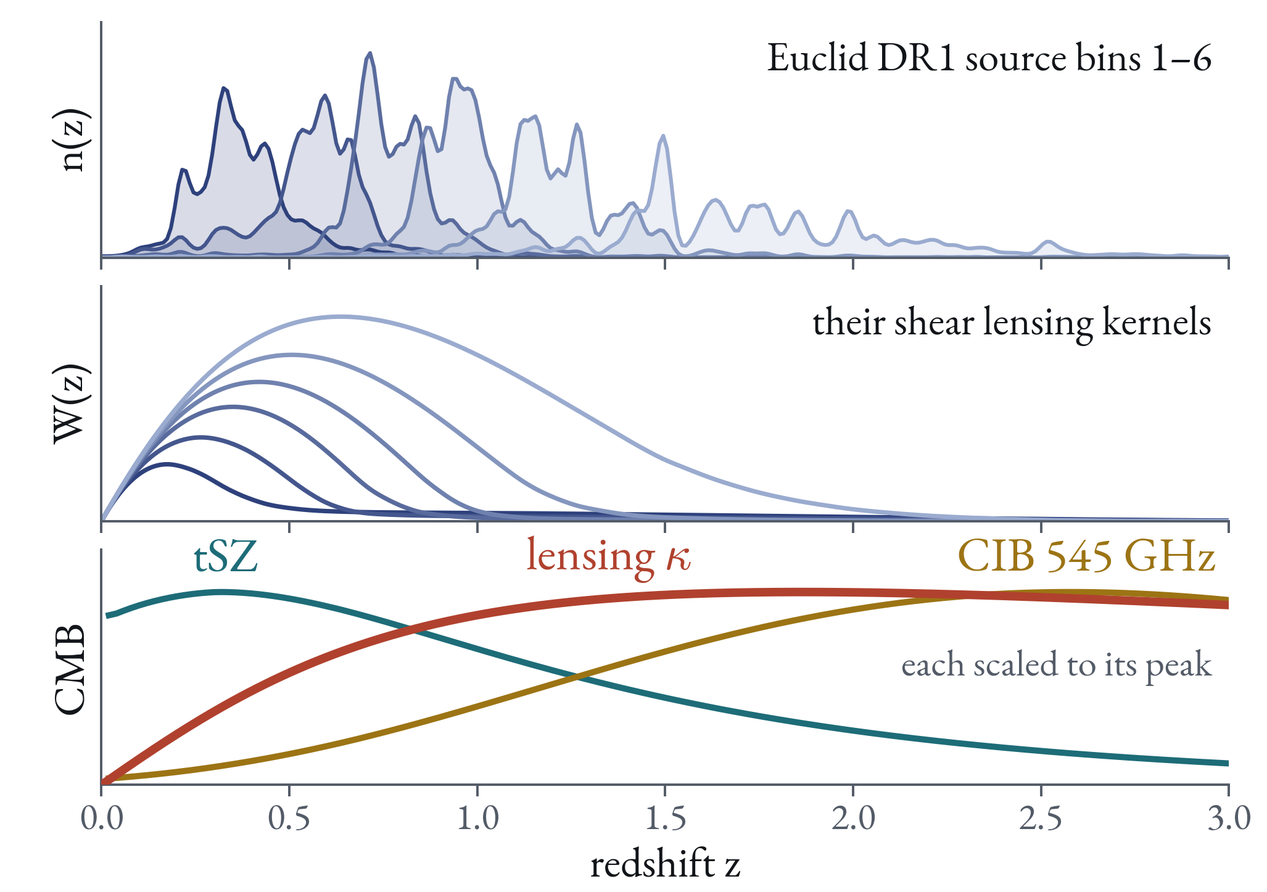
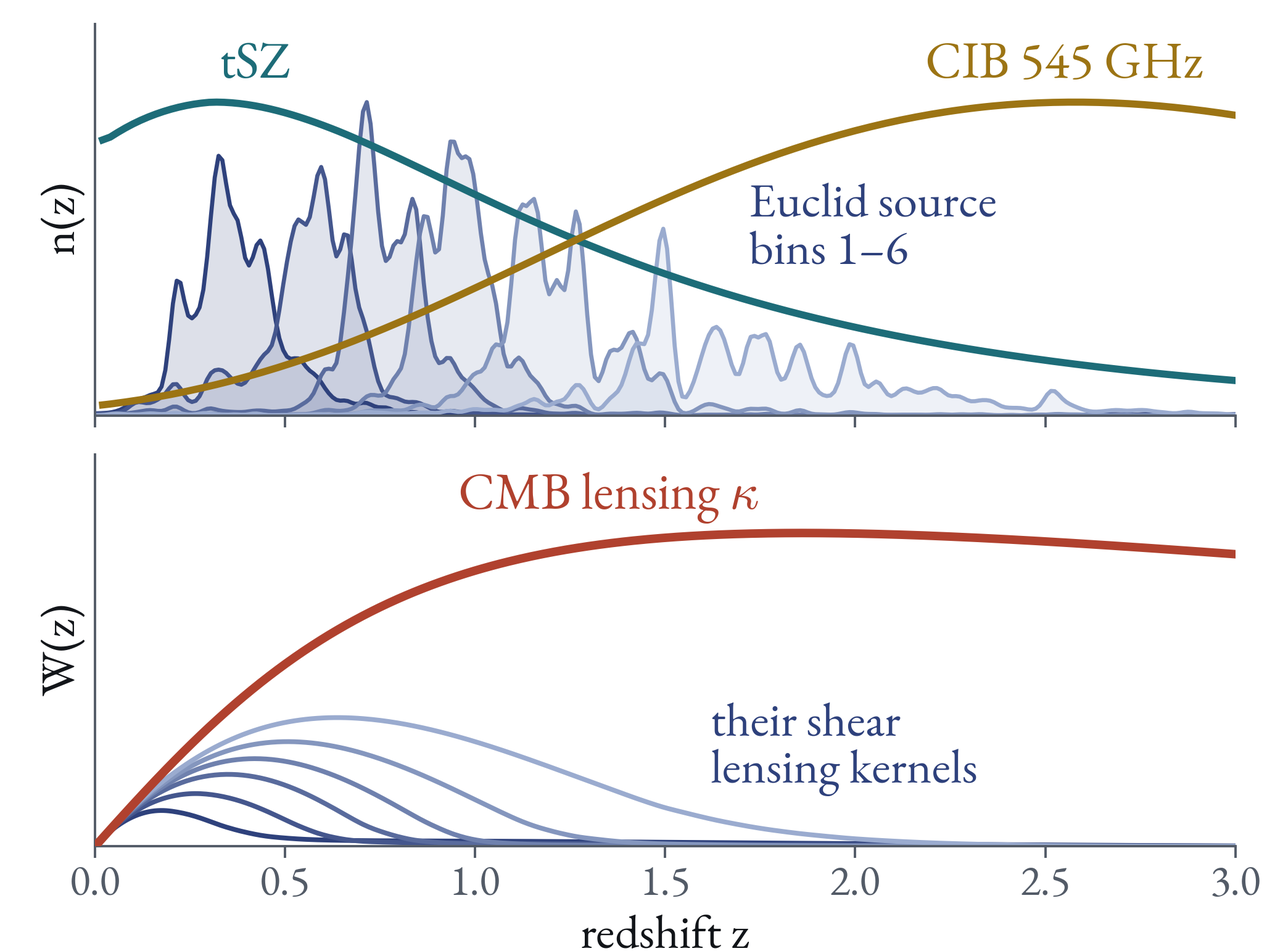
Napoli: two-panel kernels, KP1 extended-forecast slides, legible-size fixes
Kernels: n(z)-like kernels on top (source bins, tSZ, CIB), lensing kernels below
(shear bins and CMB lensing in common units). Pre-launch KP1 extended
forecasts (two slides from the contributions deck, text verbatim, fine print
and the contributor's notes in Sources & notes) follow 'Why CMB lensing'. The
people and KP2-3 paper slides split in two to stay legible at the new sizes;
small text moved into Sources & notes across the deck.

Claude-Session: https://claude.ai/code/session_018w6hWXStpK29arj2zqXwCN

diff --git a/2610_Napoli_CMBX/slides/why-kappa.html b/2610_Napoli_CMBX/slides/why-kappa.html
@@ -1,22 +1,30 @@
 <section data-layout="figure-text">
   <h2>CMB secondaries: anchors with their own systematics</h2>
   <figure>
-    <img src="images/napoli_secondary_kernels_euclid.png" alt="The six Euclid DR1 source bins against redshift up to 3: their n(z) on top and their shear lensing kernels below, with an empty panel at the bottom for the CMB secondaries">
-    <img class="fragment" src="images/napoli_secondary_kernels.png" alt="The same, with the CMB lensing, CIB and tSZ redshift kernels in the bottom panel, each scaled to its peak">
-    <span class="source">Euclid DR1 source n(z) (May 2026); tSZ and CIB from CCL halo models; Planck 2018 cosmology.</span>
+    <img src="images/napoli_secondary_kernels_euclid.png" alt="Two panels against redshift up to 3: on top the n(z) of the six Euclid DR1 source bins, below their shear lensing kernels">
+    <img class="fragment" src="images/napoli_secondary_kernels.png" alt="The same, with the tSZ and CIB kernels added to the top panel, each scaled to its peak, and the CMB lensing kernel added to the bottom panel in the same units as the shear kernels">
   </figure>
   <div class="text">
     <span class="kicker">What the CMB picks up on its way</span>
     <ul>
-      <li><strong>lensing κ:</strong> all matter, $z \approx 0.5$–$5$</li>
-      <li><strong>CIB:</strong> dusty star formation, $z \approx 1$–$4$</li>
+      <li><strong>lensing κ:</strong> all matter, $z \approx 0.5\text{–}5$</li>
+      <li><strong>CIB:</strong> dusty star formation, $z \approx 1\text{–}4$</li>
       <li><strong>tSZ:</strong> hot gas in haloes, $z \lesssim 1.5$</li>
       <li>no shape noise, IA or photo-z on the CMB side</li>
     </ul>
   </div>
   <aside class="notes">
-    <p>Top: the n(z) of the six Euclid DR1 weak-lensing source bins, each normalised to unit area and drawn with the analysis's Hann smoothing (width 0.05). Middle: the lensing kernel $W(z)$ of each bin, from the official tomographic n(z) product (DpdBinMeanRedshift, PHZ-weighted, South release, May 2026; mean redshifts 0.45 to 1.73), in common units so the bins' heights compare, at a Planck 2018 ΛCDM background. The shear kernels peak below $z \approx 0.7$ and are gone by $z \approx 2.5$.</p>
-    <p>Bottom, at the second step: the redshift kernels of three CMB secondaries, each scaled to its own peak because their units differ. CMB lensing: the same lensing efficiency with a single source plane at last scattering, $z_* \approx 1100$, peaking at $z \approx 1.9$ and above half its peak from $z \approx 0.4$ to beyond the plotted $z = 3.$ The cosmic infrared background at 545 GHz: the bias-weighted emissivity of the Shang et al. (2012) halo model at CCL's default parameters, peaking at $z \approx 2.6$ and above half its peak from $z \approx 1.2$ to beyond $z = 3$ (to $z \approx 4.5$). The thermal Sunyaev–Zel'dovich effect: the bias-weighted mean electron pressure in a generalised-NFW halo model, peaking at $z \approx 0.3$ and above half its peak below $z \approx 1.4.$ This is not a cluster selection function: a single cluster's SZ decrement does not dim with redshift, which is why SZ cluster catalogues are close to mass-limited out to high redshift. But the tSZ signal per unit redshift, which is what a cross-correlation sees, follows the abundance of massive, hot haloes, and that falls steeply beyond $z \sim 1$; most of the y signal comes from $z \lesssim 1.5.$ Bias-weighted kernels are what a cross-correlation sees on linear scales. The CIB and tSZ shapes depend on the model, the CIB peak most of all; they show where each signal comes from, not a measurement.</p>
-    <p>Lensing and the CIB weight structure behind and across our source bins, where the shear kernels have little weight; the tSZ overlaps the low-redshift bins and traces hot gas rather than all matter. All three are measured from CMB maps, with no shape noise, intrinsic alignments or photometric redshifts on that side; their noise and foregrounds are of another kind, independent of the shear catalogue. A cross-spectrum still inherits the galaxy side's systematics: $\gamma\kappa$ carries the sources' multiplicative bias, n(z) and an intrinsic-alignment term, $\delta\kappa$ the galaxy bias. The next slide zooms in on CMB lensing.</p>
+    <h3>What is plotted</h3>
+    <p>Two panels on one redshift axis. Top: where each signal comes from, the kernels that play the role of an n(z). Bottom: lensing kernels $W(z)$, the lensing efficiency per unit redshift.</p>
+    <p>Top, first step: the n(z) of the six Euclid DR1 weak-lensing source bins, each normalised to unit area and drawn with the analysis's Hann smoothing (width 0.05). Second step: the tSZ and CIB kernels, each scaled to its own peak because their units differ from an n(z) and from each other.</p>
+    <p>Bottom, first step: the lensing kernel of each source bin, from the official tomographic n(z) product (DpdBinMeanRedshift, PHZ-weighted, South release, May 2026; mean redshifts 0.45 to 1.73). Second step: CMB lensing, the same lensing efficiency with a single source plane at last scattering, $z_* \approx 1100.$ The shear kernels and CMB lensing are in the same units, so their heights compare: CMB lensing peaks at $z \approx 1.9$, about 2.4 times the peak of the highest source bin's kernel, and stays above half its peak from $z \approx 0.4$ to beyond $z = 3.$ The shear kernels peak below $z \approx 0.7$ and are gone by $z \approx 2.5.$</p>
+    <h3>The CMB secondaries</h3>
+    <p>The cosmic infrared background at 545 GHz: the bias-weighted emissivity of the Shang et al. (2012) halo model at CCL's default parameters, peaking at $z \approx 2.6$ and above half its peak from $z \approx 1.2$ to beyond $z = 3$ (to $z \approx 4.5$).</p>
+    <p>The thermal Sunyaev–Zel'dovich effect: the bias-weighted mean electron pressure in a generalised-NFW halo model, peaking at $z \approx 0.3$ and above half its peak below $z \approx 1.4.$ This is not a cluster selection function: a single cluster's SZ decrement does not dim with redshift, which is why SZ cluster catalogues are close to mass-limited out to high redshift. But the tSZ signal per unit redshift, which is what a cross-correlation sees, follows the abundance of massive, hot haloes, and that falls steeply beyond $z \sim 1$; most of the y signal comes from $z \lesssim 1.5.$</p>
+    <p>Bias-weighted kernels are what a cross-correlation sees on linear scales. The CIB and tSZ shapes depend on the model, the CIB peak most of all; they show where each signal comes from, not a measurement.</p>
+    <h3>Why it matters</h3>
+    <p>Lensing and the CIB weight structure behind and across our source bins, where the shear kernels have little weight; the tSZ overlaps the low-redshift bins and traces hot gas rather than all matter. All three are measured from CMB maps, with no shape noise, intrinsic alignments or photometric redshifts on that side; their noise and foregrounds are of another kind, independent of the shear catalogue. A cross-spectrum still inherits the galaxy side's systematics: $\gamma\kappa$ carries the sources' multiplicative bias, n(z) and an intrinsic-alignment term, $\delta\kappa$ the galaxy bias.</p>
+    <h3>Sources</h3>
+    <p>Euclid DR1 source n(z): DpdBinMeanRedshift, PHZ MergeNz 1.0.2, release DR1_WLSOUTH_R1 (May 2026). tSZ and CIB: CCL halo models (Tinker08 mass function, Tinker10 bias, generalised-NFW pressure after Arnaud et al. 2010 with hydrostatic bias 0.8; Shang et al. 2012 CIB). Planck 2018 cosmology. Figure: <code>make_kernels.py</code> in the talks repo.</p>
   </aside>
 </section>

diff --git a/2610_Napoli_CMBX/slides/people.html b/2610_Napoli_CMBX/slides/people.html
@@ -1,8 +1,5 @@
 <section data-layout="people">
-  <h2>The DR1 key projects and their people</h2>
-  <div class="people" data-label="KP1-2" data-topic="ISW &amp; lensing">
-    <figure><img src="images/collaborators/carlo-baccigalupi-hires.jpg" alt="Carlo Baccigalupi"><figcaption>Carlo Baccigalupi</figcaption></figure>
-  </div>
+  <h2>DR1-KP-CMBX-2-3 and its people</h2>
   <div class="people" data-label="KP2-3" data-topic="Cosmology from Euclid 3×2pt with CMB lensing">
     <figure><img src="images/collaborators/carlo-baccigalupi-hires.jpg" alt="Carlo Baccigalupi"><figcaption>Carlo Baccigalupi</figcaption></figure>
     <figure><img src="images/collaborators/giulio-fabbian.jpg" alt="Giulio Fabbian"><figcaption>Giulio Fabbian</figcaption></figure>
@@ -14,29 +11,14 @@
     <figure><img src="images/collaborators/giulia-piccirilli.jpg" alt="Giulia Piccirilli"><figcaption>Giulia Piccirilli</figcaption></figure>
     <figure><img src="images/collaborators/raphael-kou.jpg" alt="Raphaël Kou"><figcaption>Raphaël Kou</figcaption></figure>
     <figure><img src="images/collaborators/luca-pagano.jpg" alt="Luca Pagano"><figcaption>Luca Pagano</figcaption></figure>
-    <figure><img src="images/collaborators/vilasini-tinnaneri-sreekanth-hires.jpg" alt="Vilasini Tinnaneri Sreekanth"><figcaption>Vilasini Tinnaneri Sreekanth</figcaption></figure>
+    <figure><img src="images/collaborators/vilasini-tinnaneri-sreekanth-hires.jpg" alt="Vilasini Tinnaneri Sreekanth"><figcaption>Vilasini T. Sreekanth</figcaption></figure>
     <figure><img src="images/collaborators/davide-luchina-hires.jpg" alt="Davide Luchina"><figcaption>Davide Luchina</figcaption></figure>
     <figure><img src="images/collaborators/matteo-calabrese.jpg" alt="Matteo Calabrese"><figcaption>Matteo Calabrese</figcaption></figure>
     <figure><img src="images/collaborators/sandeep-haridasu.jpg" alt="Sandeep Haridasu"><figcaption>Sandeep Haridasu</figcaption></figure>
     <figure><img src="images/collaborators/melita-carbone.jpg" alt="Melita Carbone"><figcaption>Melita Carbone</figcaption></figure>
     <figure><img src="images/collaborators/pauline-vielzeuf.jpg" alt="Pauline Vielzeuf"><figcaption>Pauline Vielzeuf</figcaption></figure>
   </div>
-  <div class="people" data-label="KP4" data-topic="Hot gas in the cosmic web via tSZ">
-    <figure><img src="images/collaborators/nabila-aghanim.png" alt="Nabila Aghanim"><figcaption>Nabila Aghanim</figcaption></figure>
-    <figure><img src="images/collaborators/laura-salvati.png" alt="Laura Salvati"><figcaption>Laura Salvati</figcaption></figure>
-    <figure><img src="images/collaborators/vilasini-tinnaneri-sreekanth-hires.jpg" alt="Vilasini Tinnaneri Sreekanth"><figcaption>Vilasini Tinnaneri Sreekanth</figcaption></figure>
-    <figure><img src="images/collaborators/lea-dumilly-hires.jpg" alt="Léa Dumilly"><figcaption>Léa Dumilly</figcaption></figure>
-    <figure><img src="images/collaborators/emma-aycoberry.jpg" alt="Emma Ayçoberry"><figcaption>Emma Ayçoberry</figcaption></figure>
-    <figure><img src="images/collaborators/margherita-lembo-hires.jpg" alt="Margherita Lembo"><figcaption>Margherita Lembo</figcaption></figure>
-    <figure><img src="images/collaborators/cail-daley.jpg" alt="Cail Daley"><figcaption>Cail Daley</figcaption></figure>
-    <figure><img src="images/collaborators/davide-luchina-hires.jpg" alt="Davide Luchina"><figcaption>Davide Luchina</figcaption></figure>
-  </div>
-  <div class="people" data-label="KP5" data-topic="Peculiar velocities">
-    <figure><img src="images/collaborators/carlos-hernandez-monteagudo.png" alt="Carlos Hernández-Monteagudo"><figcaption>Carlos Hernández-Monteagudo</figcaption></figure>
-    <p>G. Aricò<br>R. Bean<br>J. Chaves-Montero<br>H. Cortois<br>G. Fabbian<br>M. Fernández-Tonreiro<br>R. Génova-Santos<br>M. Migliaccio<br>M. Pérez-Sar<br>R. Rebolo<br>J.A. Rubiño-Martín</p>
-  </div>
-  <p class="source">Additional probes: cross-correlations with AGNs, voids, the FIR CIB and cluster masses.</p>
   <aside class="notes">
-    <p>The DR1 key projects of the CMBX working group and their people. Each column is a key project with its topic, as listed in the CMBX splinter introduction in Barcelona: KP1-2, CMB ISW and lensing cross-correlation with Euclid observables; KP2-3, cosmology with the combination of Euclid photometric probes and CMB lensing; KP4, hot gas in the cosmic web via tSZ cross-correlation with GC, WL and clusters; KP5, peculiar velocities from CMB-Euclid cross-correlation. The additional probes (cross-correlations with AGNs, voids, the FIR CIB and cluster masses) are listed under the portraits. Someone working on two key projects appears in both. KP1-2 is led by Carlo Baccigalupi. In KP2-3 the first row is the KP leads (Carlo Baccigalupi, Giulio Fabbian, Louis Legrand, Margherita Lembo), then the data-vectors and systematics, likelihood and theory, and simulations and covariance workstreams in turn. KP4 is led by Nabila Aghanim and Laura Salvati, with the team shown on the title slide of the KP4 update in Barcelona. KP5 is led by Carlos Hernández-Monteagudo; the names under him are the team listed on the first slide of the KP5 update in Barcelona, which may be incomplete.</p>
+    <p>The people of DR1-KP-CMBX-2-3, cosmology with the combination of Euclid photometric probes and CMB lensing. The first row is the key-project leads (Carlo Baccigalupi, Giulio Fabbian, Louis Legrand, Margherita Lembo), then the data-vectors and systematics, likelihood and theory, and simulations and covariance workstreams in turn. Someone working on two key projects appears in both; the other key projects are on the next slide.</p>
   </aside>
 </section>

diff --git a/2610_Napoli_CMBX/slides/kp-3.html b/2610_Napoli_CMBX/slides/kp-3.html
@@ -1,25 +1,12 @@
 <section data-layout="points">
-  <h2>DR1-KP-CMBX-2-3: the planned papers</h2>
-  <div class="cols">
-    <div>
-      <p class="small"><strong class="accent">KP2:</strong> CMB lensing cross-correlation with Euclid observables</p>
-      <ul class="small">
-        <li><strong class="cobalt">CMB lensing and photometric galaxy density maps Cross-Correlation Measurement</strong><br><span class="who"><img src="images/collaborators/luca-pagano.jpg" alt="Luca Pagano">Luca Pagano</span></li>
-        <li><strong class="cobalt">CMB lensing cross spectroscopic galaxy density</strong><br><span class="who"><img src="images/collaborators/giulia-piccirilli.jpg" alt="Giulia Piccirilli">Giulia Piccirilli</span><span class="who"><span class="initials">SC</span>Sofia Chiarenza</span><span class="who"><img src="images/collaborators/arthur-loureiro.jpg" alt="Arthur Loureiro">Arthur Loureiro</span></li>
-        <li><strong class="cobalt">CMB lensing - WL shear cross-correlation</strong><br><span class="who"><img src="images/collaborators/raphael-kou.jpg" alt="Raphael Kou">Raphael Kou</span></li>
-        <li><strong class="cobalt">ISW measurements</strong><br><span class="who"><img src="images/collaborators/marina-migliaccio.png" alt="Marina Migliaccio">Marina Migliaccio</span></li>
-      </ul>
-    </div>
-    <div>
-      <p class="small"><strong class="accent">KP3:</strong> Cosmology with combination of Euclid photometric probes and CMB lensing</p>
-      <ul class="small">
-        <li><strong class="cobalt">Simulations for mock datavectors and CMB cross-covariance with Euclid DR1</strong><br><span class="who"><img src="images/collaborators/davide-luchina-hires.jpg" alt="Davide Luchina">Davide Luchina</span><span class="who"><img src="images/collaborators/melita-carbone.jpg" alt="Melita Carbone">Melita Carbone</span></li>
-        <li><strong class="cobalt">6x2pt analysis - Planck and ACT only</strong><br><span class="who"><img src="images/collaborators/margherita-lembo-hires.jpg" alt="Margherita Lembo">Margherita Lembo</span><span class="who"><img src="images/collaborators/louis-legrand-hires.jpg" alt="Louis Legrand">Louis Legrand</span><span class="who"><img src="images/collaborators/giulio-fabbian.jpg" alt="Giulio Fabbian">Giulio Fabbian</span></li>
-        <li><strong class="cobalt">Cross correlation with Euclid and SPT CMB Lensing</strong><br><span class="who"><img src="images/collaborators/cail-daley.jpg" alt="Cail Daley">Cail Daley</span></li>
-      </ul>
-    </div>
-  </div>
-  <p class="source">Names are paper leads, not necessarily first authors. From the KP2/3 paper list, 8 October 2026.</p>
+  <h2>DR1-KP-CMBX-2-3: the planned KP2 papers</h2>
+  <p><strong class="accent">KP2:</strong> CMB lensing cross-correlation with Euclid observables</p>
+  <ul class="small">
+    <li><strong class="cobalt">CMB lensing and photometric galaxy density maps Cross-Correlation Measurement</strong><br><span class="who"><img src="images/collaborators/luca-pagano.jpg" alt="Luca Pagano">Luca Pagano</span></li>
+    <li><strong class="cobalt">CMB lensing cross spectroscopic galaxy density</strong><br><span class="who"><img src="images/collaborators/giulia-piccirilli.jpg" alt="Giulia Piccirilli">Giulia Piccirilli</span><span class="who"><span class="initials">SC</span>Sofia Chiarenza</span><span class="who"><img src="images/collaborators/arthur-loureiro.jpg" alt="Arthur Loureiro">Arthur Loureiro</span></li>
+    <li><strong class="cobalt">CMB lensing - WL shear cross-correlation</strong><br><span class="who"><img src="images/collaborators/raphael-kou.jpg" alt="Raphael Kou">Raphael Kou</span></li>
+    <li><strong class="cobalt">ISW measurements</strong><br><span class="who"><img src="images/collaborators/marina-migliaccio.png" alt="Marina Migliaccio">Marina Migliaccio</span></li>
+  </ul>
   <aside class="notes">
   <p>The two key projects run as one effort. The planned papers and their leads are copied verbatim from the updated KP2/3 paper list in the “Perpetual Slides DR1-CMBX-KP2/3” deck, shown at the KP2-3 telecon of 8 October 2026, which carries the disclaimer that the names are paper leads, not necessarily first authors. The key-project leads are the coordinators listed on the KP2-3 Redmine wiki: Carlo Baccigalupi for KP2 (with Karim Benabed until his death), and Giulio Fabbian, Louis Legrand and Margherita Lembo for KP3; everyone in the key projects is on the people slide.</p>
   <p>Channels: Redmine wiki dr1-kp-cmbx-3, Slack #dr1-kp-cmbx3_2, telecons every two weeks on Thursdays at 14:00, alternating with the SWG telecon.</p>

diff --git a/2610_Napoli_CMBX/slides/kp1-forecast.html b/2610_Napoli_CMBX/slides/kp1-forecast.html
@@ -1,0 +1,27 @@
+<section data-layout="figure-text" data-split="50">
+  <h2>CMB lensing helps most where Euclid is weakest</h2>
+  <figure>
+    <img src="images/napoli_kp1_forecast_ratios.png" alt="Bar charts of sigma(6x2pt x Planck) over sigma(3x2pt) for LCDM and w0waCDM parameters, DR1 in red and DR3 in blue, solid with a BBN prior and hatched for the change without it">
+    <span class="source">Pre-launch KP1 · G. Frittoli, F. Finelli, A. Ferrari et al.</span>
+  </figure>
+  <div class="text">
+    <span class="kicker">KP1 Extended Forecasts</span>
+    <div class="cards">
+      <div class="card"><span class="value">×0.24</span><span class="label">σ(σ₈) in DR1</span><span class="sub">DR3 ×0.53</span></div>
+      <div class="card"><span class="value">×0.47</span><span class="label">σ(Σmν) in DR1</span><span class="sub">DR3 ×0.69</span></div>
+      <div class="card"><span class="value">×0.55</span><span class="label">σ(nₛ) in DR1</span><span class="sub">DR3 ×0.75</span></div>
+    </div>
+    <p class="small">With early data (DR1), Planck lensing roughly <strong>doubles the gain on σ₈</strong> compared with DR3. Ωb and h gain little (×0.94), w₀ and wₐ ×0.84–0.96. nₛ gains only once BBN fixes Ωbh²: ×0.55 with it, ×0.72 without.</p>
+  </div>
+  <aside class="notes">
+    <h3>On the contributed slide</h3>
+    <p>CMBX · EUCLID × CMB LENSING FORECASTS</p>
+    <p>CMBX: Euclid 3×2pt alone and with CMB lensing (6×2pt), six cosmologies. Full survey (DR3) with Simons Observatory (SO): σ₈ 40–73% tighter in five of the six models.</p>
+    <p>Here: ΛCDM, σ(6×2pt × Planck) / σ(3×2pt). <span class="accent">DR1</span>: 6+6 bins, 2 500 deg², Gaussian. <strong class="cobalt">Full survey (DR3)</strong>: 13+13 bins, pessimistic cuts, Gaussian + SSC. Solid: BBN prior; hatched: the change without it.</p>
+    <p><strong>Nuisances marginalised with the cosmology:</strong> galaxy and magnification bias, intrinsic alignments, shear biases mᵢ.</p>
+    <h3>Contributor's notes</h3>
+    <p>The CMBX project: Fisher forecasts for Euclid photometric 3x2pt alone and combined with CMB lensing (6x2pt), for LCDM, w0waCDM, induced gravity, nmcxp-Delta, K-mouflage and TPM, with Planck and SO lensing, pessimistic and optimistic cuts, Gaussian plus super-sample covariance and a BBN prior on omega_b. Across the six models (full survey, SO, pessimistic) sigma8 tightens by 40-73%, except nmcxp-Delta (12%); n_s 25-44%, sum m_nu 15-59%, the DE/MG parameters 7-41%. The figure (paper Fig. 3 with the BBN overlay): solid bars with the BBN prior, hatched caps = the change without it. Ratio sigma(6x2pt x Planck) / sigma(3x2pt), lower = more gain, for DR1 (red: 6+6 bins, 2500 deg2, per-bin ell_max 140-380 GC / 281-760 WL, Gaussian) and the full survey (blue: 13+13 bins, 14 700 deg2, pessimistic cuts, Gaussian + SSC). Both with Planck lensing, so the comparison is like for like. LCDM, DR1 / full: Omega_m 0.73 / 0.96, Omega_b 0.94 / 0.97, h 0.94 / 0.97, n_s 0.55 / 0.75, sigma8 0.24 / 0.53, sum m_nu 0.47 / 0.69. w0waCDM: sigma8 0.30 / 0.58, sum m_nu 0.41 / 0.76, w0 0.84 / 0.93, wa 0.88 / 0.96. BBN prior: without it the sigma8, sum m_nu and Omega_m ratios change by at most 0.05. n_s changes most (DR1 0.55 with BBN, 0.72 without): without BBN sigma(n_s) is limited by the n_s-Omega_b-h degeneracy (corr(n_s, h) = -0.87), which CMB lensing does not break; once BBN fixes Omega_b h^2, what limits n_s in 3x2pt is the shear bias, which CMB lensing calibrates (with the m_i fixed the 6x2pt gain on n_s vanishes: ratio 0.98). Both 3x2pt and 6x2pt carry the same prior in each ratio. The point: the cross-correlation is worth most where Euclid alone is weakest, the same trend as pessimistic against optimistic cuts, so CMB lensing matters most for early data. The next slide shows the mechanism: CMB lensing calibrates the multiplicative shear biases. Caveats: Fisher forecasts; tau fixed; DR1 Gaussian only, the full survey with SSC.</p>
+    <h3>Who</h3>
+    <p>The pre-launch CMBX KP1 extended-forecast project, presented by Guglielmo Frittoli at the CMBX general telecon of 1 October 2026, introduced by Fabio Finelli, with Angelo Ferrari. The CMBXExtForecast group, as listed on its telecon slides: N. Aghanim, M. Archidiacono, M. Aubert, C. Baccigalupi, M. Ballardini, N. Bartolo, G. Benevento, J. R. Bermejo-Climent, D. Bertacca, M. Bonici, C. Carbone, V. Cardone, A. Ferrari, F. Finelli, G. Frittoli, S. Gouyou Beauchamps, C. Hernandez-Monteagudo, R. Kou, S. Ilic, F. Lacasa, L. Legrand, D. Paoletti, D. Sciotti.</p>
+  </aside>
+</section>

diff --git a/2610_Napoli_CMBX/slides/kp1-calibration.html b/2610_Napoli_CMBX/slides/kp1-calibration.html
@@ -1,0 +1,27 @@
+<section data-layout="figure-text" data-split="50">
+  <h2>DR3: SO lensing ≈ a perfect shear calibration</h2>
+  <figure>
+    <img src="images/napoli_kp1_shear_calibration_triangle.png" alt="Triangle plot of sigma8, Omega_m, sum of neutrino masses and n_s: 3x2pt in grey dashed, 3x2pt with the shear biases fixed in orange, and 6x2pt with SO in blue, which sits almost on the orange contours">
+    <span class="source">Pre-launch KP1 · G. Frittoli, F. Finelli, A. Ferrari et al.</span>
+  </figure>
+  <div class="text">
+    <div class="cards">
+      <div class="card"><span class="value">×0.34</span><span class="label">σ(σ₈), 3×2pt → 6×2pt</span><span class="sub">0.0167 → 0.0057</span></div>
+      <div class="card"><span class="value">×0.30</span><span class="label">σ(mᵢ), median of the 13 bins</span></div>
+      <div class="card"><span class="value">0.93 → 0.27</span><span class="label">|corr(σ₈, m₁₃)|, the σ₈–shear degeneracy broken</span></div>
+    </div>
+    <p class="small callout"><strong>For DR1 it is even better:</strong> 6×2pt × Planck matches fixing all six mᵢ (σ₈ ×0.24 vs ×0.25, Σmν ×0.47 vs ×0.49) and shrinks σ(mᵢ) six-fold, 0.10 → 0.02.</p>
+  </div>
+  <aside class="notes">
+    <h3>On the contributed slide</h3>
+    <p>EUCLID × CMB LENSING · FULL SURVEY (DR3)</p>
+    <p>ΛCDM · 13+13 bins, 14 700 deg² · pessimistic cuts (ℓ ≤ 750 GC, 1500 WL) · Gaussian + SSC · SO φ, ℓ 2–3000 · BBN prior · τ fixed</p>
+    <p><strong>mᵢ = multiplicative shear bias:</strong> measured shear = (1 + mᵢ) × true shear in source bin i. Always marginalised, like the galaxy bias; “mᵢ fixed” = a perfect shear calibration.</p>
+    <p>Fisher forecast, no prior on the mᵢ in 3×2pt: a calibration prior on the mᵢ would make the 6×2pt gain smaller.</p>
+    <p><strong>Fixing all 13 mᵢ</strong> gives σ₈ ×0.30 and Σmν ×0.57; <strong>6×2pt × SO</strong> gives ×0.34 and ×0.60, almost the same, with no external calibration. Ωm (×0.91) is limited by galaxy bias instead.</p>
+    <h3>Contributor's notes</h3>
+    <p>The CMBX project: Fisher forecasts for Euclid photometric 3x2pt (galaxy clustering, weak lensing and their cross) alone and combined with CMB lensing (6x2pt), for LCDM, w0waCDM, IG, nmcxp-Delta, K-mouflage and TPM, with Planck and SO lensing, pessimistic and optimistic cuts, Gaussian plus super-sample covariance. The figure: grey dashed = 3x2pt with every nuisance marginalised; orange = 3x2pt with the 13 multiplicative shear biases fixed at their fiducial (a perfect shear calibration); blue = 6x2pt with SO, everything marginalised. The blue contours sit almost on the orange ones. Numbers (sigma ratios to 3x2pt, BBN prior): m_i fixed: sigma8 0.30, Omega_m 0.71, sum m_nu 0.57, n_s 0.63. 6x2pt x SO: 0.34, 0.91, 0.60, 0.69. Without the BBN prior: 0.31/0.71/0.61/0.72 against 0.38/0.94/0.66/0.78, so the message does not depend on the prior. Shear biases: sigma(m_i) from 3x2pt is about 0.02 in every bin; with SO lensing it drops to 0.017 in bin 1 and 0.004 in bin 13 (ratio 0.67 to 0.22). The gain grows with redshift because the high-z source bins overlap most with the CMB lensing kernel. Caveats: Fisher matrices; no prior on m_i in the 3x2pt case (a real Euclid analysis will have one, which reduces the gain); tau fixed; Omega_m gains little because its 3x2pt error is set by the galaxy bias, which CMB lensing calibrates only in part. DR1 (6+6 bins, 2500 deg2, Gaussian, Planck lensing, ell 8-400): m_i fixed gives sigma8 0.25, Omega_m 0.76, sum m_nu 0.49, n_s 0.56; 6x2pt x Planck gives 0.24, 0.73, 0.47, 0.55, slightly better than a perfect calibration. sigma(m_i) goes from about 0.10 to 0.027 (bin 0) - 0.015 (bin 5); |corr(sigma8, m0)| from 0.93 to 0.01. Figure: fig_lensing_as_calibration_DR1_LCDM_Planck in paper/plots/Main.</p>
+    <h3>Who</h3>
+    <p>The pre-launch CMBX KP1 extended-forecast project, presented by Guglielmo Frittoli at the CMBX general telecon of 1 October 2026, introduced by Fabio Finelli, with Angelo Ferrari. The CMBXExtForecast group, as listed on its telecon slides: N. Aghanim, M. Archidiacono, M. Aubert, C. Baccigalupi, M. Ballardini, N. Bartolo, G. Benevento, J. R. Bermejo-Climent, D. Bertacca, M. Bonici, C. Carbone, V. Cardone, A. Ferrari, F. Finelli, G. Frittoli, S. Gouyou Beauchamps, C. Hernandez-Monteagudo, R. Kou, S. Ilic, F. Lacasa, L. Legrand, D. Paoletti, D. Sciotti.</p>
+  </aside>
+</section>

diff --git a/2610_Napoli_CMBX/slides/people-other.html b/2610_Napoli_CMBX/slides/people-other.html
@@ -1,0 +1,24 @@
+<section data-layout="people">
+  <h2>The other DR1 key projects and their people</h2>
+  <div class="people" data-label="KP1-2" data-topic="ISW &amp; lensing">
+    <figure><img src="images/collaborators/carlo-baccigalupi-hires.jpg" alt="Carlo Baccigalupi"><figcaption>Carlo Baccigalupi</figcaption></figure>
+  </div>
+  <div class="people" data-label="KP4" data-topic="Hot gas in the cosmic web via tSZ">
+    <figure><img src="images/collaborators/nabila-aghanim.png" alt="Nabila Aghanim"><figcaption>Nabila Aghanim</figcaption></figure>
+    <figure><img src="images/collaborators/laura-salvati.png" alt="Laura Salvati"><figcaption>Laura Salvati</figcaption></figure>
+    <figure><img src="images/collaborators/vilasini-tinnaneri-sreekanth-hires.jpg" alt="Vilasini Tinnaneri Sreekanth"><figcaption>Vilasini Tinnaneri Sreekanth</figcaption></figure>
+    <figure><img src="images/collaborators/lea-dumilly-hires.jpg" alt="Léa Dumilly"><figcaption>Léa Dumilly</figcaption></figure>
+    <figure><img src="images/collaborators/emma-aycoberry.jpg" alt="Emma Ayçoberry"><figcaption>Emma Ayçoberry</figcaption></figure>
+    <figure><img src="images/collaborators/margherita-lembo-hires.jpg" alt="Margherita Lembo"><figcaption>Margherita Lembo</figcaption></figure>
+    <figure><img src="images/collaborators/cail-daley.jpg" alt="Cail Daley"><figcaption>Cail Daley</figcaption></figure>
+    <figure><img src="images/collaborators/davide-luchina-hires.jpg" alt="Davide Luchina"><figcaption>Davide Luchina</figcaption></figure>
+  </div>
+  <div class="people" data-label="KP5" data-topic="Peculiar velocities">
+    <figure><img src="images/collaborators/carlos-hernandez-monteagudo.png" alt="Carlos Hernández-Monteagudo"><figcaption>Carlos Hernández-Monteagudo</figcaption></figure>
+    <p>and a team of eleven<br>(in Sources &amp; notes)</p>
+  </div>
+  <p class="source">Additional probes: cross-correlations with AGNs, voids, the FIR CIB and cluster masses.</p>
+  <aside class="notes">
+    <p>The DR1 key projects of the CMBX working group and their people. Each column is a key project with its topic, as listed in the CMBX splinter introduction in Barcelona: KP1-2, CMB ISW and lensing cross-correlation with Euclid observables; KP2-3, cosmology with the combination of Euclid photometric probes and CMB lensing; KP4, hot gas in the cosmic web via tSZ cross-correlation with GC, WL and clusters; KP5, peculiar velocities from CMB-Euclid cross-correlation. The additional probes (cross-correlations with AGNs, voids, the FIR CIB and cluster masses) are listed under the portraits. Someone working on two key projects appears in both. KP1-2 is led by Carlo Baccigalupi. In KP2-3 the first row is the KP leads (Carlo Baccigalupi, Giulio Fabbian, Louis Legrand, Margherita Lembo), then the data-vectors and systematics, likelihood and theory, and simulations and covariance workstreams in turn. KP4 is led by Nabila Aghanim and Laura Salvati, with the team shown on the title slide of the KP4 update in Barcelona. KP5 is led by Carlos Hernández-Monteagudo; the names under him are the team listed on the first slide of the KP5 update in Barcelona, which may be incomplete: G. Aricò, R. Bean, J. Chaves-Montero, H. Cortois, G. Fabbian, M. Fernández-Tonreiro, R. Génova-Santos, M. Migliaccio, M. Pérez-Sar, R. Rebolo, J.A. Rubiño-Martín.</p>
+  </aside>
+</section>

diff --git a/2610_Napoli_CMBX/slides/kp-4-godmax.html b/2610_Napoli_CMBX/slides/kp-4-godmax.html
@@ -1,4 +1,4 @@
-<section data-layout="figure-text" data-split="70">
+<section data-layout="figure-text" data-split="60">
   <h2>Intro: From halos to observables</h2>
   <figure>
     <img src="images/napoli_kp4_halos_to_observables.png" alt="Diagram: galaxies (light tracers, HOD model), hot gas (tSZ tracers, thermal pressure) and weak lensing (mass tracers, IA) all trace matter distributed in halos in the halo model, crossed by CMB photons; GODMAX turns this into auto and cross spectra gg, γγ, yy, gy, γy, gγ">
@@ -7,7 +7,7 @@
     <p class="small"><strong>Common halo backbone</strong><br>All tracers live in the same halo population</p>
     <p class="small"><strong>Tracer specific astrophysics</strong><br>Each probe responds to the halo in its own way</p>
     <p class="small"><strong>Joint multi-probe prediction and analysis</strong><br>Fully differentiable, and uses JAX-NUTS for sampling.</p>
-    <p class="source"><span class="who"><img src="images/collaborators/lea-dumilly.jpg" alt="Léa Dumilly">Léa Dumilly</span><span class="who"><img src="images/collaborators/vilasini-tinnaneri-sreekanth.jpg" alt="Vilasini Tinnaneri Sreekanth">Vilasini Tinnaneri Sreekanth</span><span class="who"><img src="images/collaborators/emma-aycoberry.jpg" alt="Emma Ayçoberry">Emma Ayçoberry</span><br>and the KP4 group</p>
+    <p class="source"><span class="who"><img src="images/collaborators/lea-dumilly.jpg" alt="Léa Dumilly">Léa Dumilly</span><span class="who"><img src="images/collaborators/vilasini-tinnaneri-sreekanth.jpg" alt="Vilasini Tinnaneri Sreekanth">Vilasini T. Sreekanth</span><span class="who"><img src="images/collaborators/emma-aycoberry.jpg" alt="Emma Ayçoberry">Emma Ayçoberry</span>+ KP4 group</p>
   </div>
   <aside class="notes"><p>Content mirrored verbatim from the contributions deck (9 Oct export).</p></aside>
 </section>

diff --git a/2610_Napoli_CMBX/slides/mocks.html b/2610_Napoli_CMBX/slides/mocks.html
@@ -7,18 +7,17 @@
         <li>correlated Euclid and CMB-lensing fields from one set of matter shells</li>
         <li>run through the production pipeline: same masks, noise and code as the data</li>
         <li>check every stage: bandpowers, covariance against scatter, blind, likelihood</li>
-        <li>fast and flexible: any footprint, n(z) or CMB noise</li>
       </ul>
     </div>
     <div>
       <p><strong class="accent">FLASK lognormal</strong><br><span class="small muted">the numerical covariance</span></p>
       <ul class="small">
         <li>400 realisations; 3×2pt constrained on ACT DR6 simulations, and Planck-like with their own lensing reconstruction</li>
-        <li>calibrated on DEMNUni N-body simulations</li>
+        <li>calibrated on DEMNUni N‑body simulations</li>
         <li>non-Gaussian and with real reconstruction noise: more accurate</li>
         <li>Planck-constrained version next</li>
       </ul>
-      <p class="small"><span class="who"><img src="images/collaborators/davide-luchina-hires.jpg" alt="Davide Luchina">Davide Luchina</span><span class="who"><img src="images/collaborators/melita-carbone.jpg" alt="Melita Carbone">Melita Carbone</span><br>with Baccigalupi, Calabrese, Haridasu, Vielzeuf</p>
+      <p class="small"><span class="who"><img src="images/collaborators/davide-luchina-hires.jpg" alt="Davide Luchina">Davide Luchina</span><span class="who"><img src="images/collaborators/melita-carbone.jpg" alt="Melita Carbone">Melita Carbone</span></p>
     </div>
   </div>
   <aside class="notes">

diff --git a/2610_Napoli_CMBX/slides/kp-3-papers.html b/2610_Napoli_CMBX/slides/kp-3-papers.html
@@ -1,0 +1,12 @@
+<section data-layout="points">
+  <h2>DR1-KP-CMBX-2-3: the planned KP3 papers</h2>
+  <p><strong class="accent">KP3:</strong> Cosmology with combination of Euclid photometric probes and CMB lensing</p>
+  <ul class="small">
+    <li><strong class="cobalt">Simulations for mock datavectors and CMB cross-covariance with Euclid DR1</strong><br><span class="who"><img src="images/collaborators/davide-luchina-hires.jpg" alt="Davide Luchina">Davide Luchina</span><span class="who"><img src="images/collaborators/melita-carbone.jpg" alt="Melita Carbone">Melita Carbone</span></li>
+    <li><strong class="cobalt">6x2pt analysis - Planck and ACT only</strong><br><span class="who"><img src="images/collaborators/margherita-lembo-hires.jpg" alt="Margherita Lembo">Margherita Lembo</span><span class="who"><img src="images/collaborators/louis-legrand-hires.jpg" alt="Louis Legrand">Louis Legrand</span><span class="who"><img src="images/collaborators/giulio-fabbian.jpg" alt="Giulio Fabbian">Giulio Fabbian</span></li>
+    <li><strong class="cobalt">Cross correlation with Euclid and SPT CMB Lensing</strong><br><span class="who"><img src="images/collaborators/cail-daley.jpg" alt="Cail Daley">Cail Daley</span></li>
+  </ul>
+  <aside class="notes">
+    <p>The KP3 half of the KP2/3 paper list, copied verbatim; the sources are on the previous slide's notes. Names are paper leads, not necessarily first authors.</p>
+  </aside>
+</section>

diff --git a/2610_Napoli_CMBX/slides/lens-ratio.html b/2610_Napoli_CMBX/slides/lens-ratio.html
@@ -3,7 +3,6 @@
   <figure>
     <img src="images/napoli_lens_ratio_1.png" data-alt='{"lensmc|act": "images/napoli_lens_ratio_1__lensmc_act.png", "metacal|spt": "images/napoli_lens_ratio_1__metacal_spt.png", "metacal|act": "images/napoli_lens_ratio_1__metacal_act.png"}' alt="Lens ratio mu per source bin recovered from ten GLASS mocks: seed values scattered around one, medians within a few percent of one, and a narrow band showing how little a blind-sized cosmology shift moves it">
     <img class="fragment" data-fragment-index="1" src="images/napoli_lens_ratio_2.png" data-alt='{"lensmc|act": "images/napoli_lens_ratio_2__lensmc_act.png", "metacal|spt": "images/napoli_lens_ratio_2__metacal_spt.png", "metacal|act": "images/napoli_lens_ratio_2__metacal_act.png"}' alt="The same with TR1 times SPT-3G data added: six correlated per-bin points between 0.79 and 1.07 and one shared mu of 0.88 with its one-sigma band reaching up to about 1.07">
-    <span class="source">Ten GLASS mocks, then blinded TR1 × <span data-variant="lensmc|spt metacal|spt">SPT-3G</span><span data-variant="lensmc|act metacal|act">ACT DR6</span>, on linear scales ($k_{\rm max} = 0.15\,h/{\rm Mpc}$).</span>
   </figure>
   <div class="text">
     <p>Lens ratio $\mu_i = C^{\gamma_i\delta}/C^{\kappa\delta}$ ÷ fiducial<br>$\propto (1+m_i) \times$ n(z) efficiency</p>

diff --git a/2610_Napoli_CMBX/slides/kp-4.html b/2610_Napoli_CMBX/slides/kp-4.html
@@ -1,12 +1,11 @@
 <section data-layout="figure-text" data-split="50">
-  <h2>DR1-KP-CMBX-4: Hot gas in the cosmic web via TSZ cross-correlation with GC, WL and clusters</h2>
+  <h2>DR1-KP-CMBX-4: hot gas in the cosmic web via tSZ</h2>
   <figure>
     <figcaption>tSZ x Shear (Weak Lensing)</figcaption>
     <img src="images/napoli_kp4_tsz_shear.png" alt="Preliminary tSZ times shear cross-spectrum, ACT DR6 x Euclid DR1 subset, against the GODMAX fiducial (not a fit), with the multipoles above about 400 shaded as needing CIB/CO and systematics contamination validation">
   </figure>
   <div class="text">
-    <span class="kicker">Goal:</span>
-    <p class="small">➡ Deeper understanding of the impact of astrophysics on cosmology<br>&emsp;• tSZ x Galaxy Clustering<br>&emsp;• tSZ x Shear (Weak Lensing)</p>
+    <p class="small"><strong class="accent">Goal:</strong> ➡ Deeper understanding of the impact of astrophysics on cosmology<br>&emsp;• tSZ x Galaxy Clustering<br>&emsp;• tSZ x Shear (Weak Lensing)</p>
     <span class="kicker">Status on data processing</span>
     <ul class="small">
       <li>Pipeline ready

diff --git a/2610_Napoli_CMBX/slides/kp-4-godmax-cloe.html b/2610_Napoli_CMBX/slides/kp-4-godmax-cloe.html
@@ -11,5 +11,9 @@
       <li>Submit a PR to cloelib in the coming days.</li>
     </ul>
   </div>
-  <aside class="notes"><p>Content mirrored verbatim from the contributions deck (9 Oct export).</p></aside>
+  <aside class="notes">
+    <p>Content mirrored verbatim from the contributions deck.</p>
+    <h3>Contributor's notes</h3>
+    <p>The main goal is to integrate GODMAX/Halo into Cloe as an external library for the non-linear power spectrum and baryon prescription, rather than re-coding it directly in Cloe. We will also add a toggle to match the kernels where needed. On the GODMAX side, we are finalising the Cloe-related changes and will maintain them in a dedicated Euclid branch, with the aim of submitting a PR to the original GODMAX repository. In parallel, we will open a PR to Cloe so that GODMAX can eventually be integrated into the main repository, followed by further optimisation if needed.</p>
+  </aside>
 </section>
